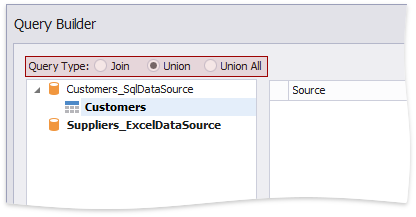
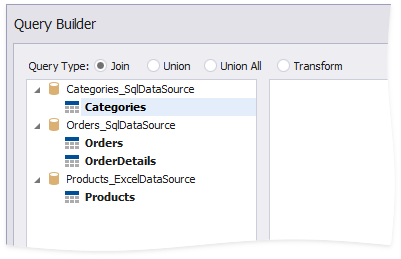
Update description

Changed region(s): [[0.0299, 0.0553, 0.9875, 0.9677], [0.0, 0.0, 0.9875, 0.0276]]

diff --git a/interface-elements-for-desktop/articles/report-designer/report-designer-for-winforms/report-designer-tools/data-source-wizard/connect-to-a-federated-data-source/create-a-federated-query.md b/interface-elements-for-desktop/articles/report-designer/report-designer-for-winforms/report-designer-tools/data-source-wizard/connect-to-a-federated-data-source/create-a-federated-query.md
@@ -15,12 +15,16 @@ Enable check boxes for data fields, queries and/or entire data sources.
 
 The selected items are included in data federation as separate queries based on initial data source queries.
 
-![](../../../../../../images/eurd-win-data-federation-queries-field-list.png)
+![](../../../../../../images/data-federation-queries-field-list.png)
 
 The wizard specifies query names as follows:
 
 * If the initial data source contains one or more queries (such as in a SQL data source), the federated query name consists of the data source name and query name separated by an underscore.
 * If the initial data source contains data at the root level (such as in an Excel data source), federated query name is equivalent to the data source name.
+
+Right-click the federated data source and choose **Manage Relations**. This invokes the **Master-Detail Relation Editor** you can use to [specify a master-detail relationship](#specify-master-detail-relationships) between the separate queries.
+
+![](../../../../../../images/data-federation-queries-field-list-manage-relations.png)
 
 ## Combine Data into a Single Query
 
@@ -28,42 +32,15 @@ To combine data from multiple data sources into a single query, click **Add Quer
 
 ![](../../../../../../images/eurd-win-data-source-wizard-data-federation-add-query.png)
 
-This invokes the [Query Builder](../../query-builder.md) adapted to federated data sources. Specify the query type.
+This invokes the [Query Builder](../../query-builder.md) designed to federated data sources.
 
 ![](../../../../../../images/DataFederationUnion-Specify-Query-Type.png)
 
-- **Join**
+You can use the **Join**, **Union**, **Union All**, and **Transform** query types to combine data. Refer to the following articles for more information on these query types.
 
-    Drag and drop items onto the design surface, and specify join relationships in the **Join Editor**.
-
-    ![](../../../../../../images/eurd-win-data-source-wizard-data-federation-join-data.png)
-
-    Enable check boxes for the data fields you want to include in the query result set.
-
-    ![](../../../../../../images/eurd-win-data-source-wizard-data-federation-join-select-fields.png)
-
-- **Union and Union All**
-
-    Double-click the data sources you want to combine into a single query. The query includes only fields that have identical names and types in the origin sources.
-
-    ![](../../../../../../images/DataFederationUnion-Common-Fields.png)
-
-    Rename fields.
-
-    ![](../../../../../../images/DataFederation-FieldAliases.png)
-
-    > [!Tip]
-    > When you use the **Union** mode, duplicate data from the origin data sources is removed from the query result set. Use the **Union All** mode to include all data.
-
-The created query appears on the wizard page in the **Federated Queries** category. The federated query's default name is equivalent to the main table name. 
-
-![](../../../../../../images/eurd-win-data-source-wizard-data-federation-join-query.png)
-
-You can click the ![report-wizard-multi-query-page-icon-edit](../../../../../../images/eurd-win-report-wizard-multi-query-page-icon-edit125534.png) button to customize the query or the ![report-wizard-multi-query-page-icon-remove](../../../../../../images/eurd-win-report-wizard-multi-query-page-icon-remove125533.png) button to remove the query. 
-
-Once you finish the wizard, it creates a federated data source that includes a single query.
-
-![](../../../../../../images/eurd-win-data-federation-single-query-field-list.png)
+* Bind a Report to a Join-Based Federated Data Source
+* Bind a Report to a Union-Based Federated Data Source
+* Bind a Report to a Transformation-Based Data Source
 
 ## Specify Master-Detail Relationships
 
@@ -77,4 +54,6 @@ In the invoked editor, drag and drop the key field from the master query to the 
 
 Once the wizard is complete, you can see the master-detail hierarchy in the Field List.
 
-![](../../../../../../images/eurd-win-data-federation-master-detail-hierarchy-field-list.png)
+![](../../../../../../images/data-federation-master-detail-hierarchy-field-list.png)
+
+For more information, refer to the following guide: Bind a Report to a Federated Master-Detail Data Source.
